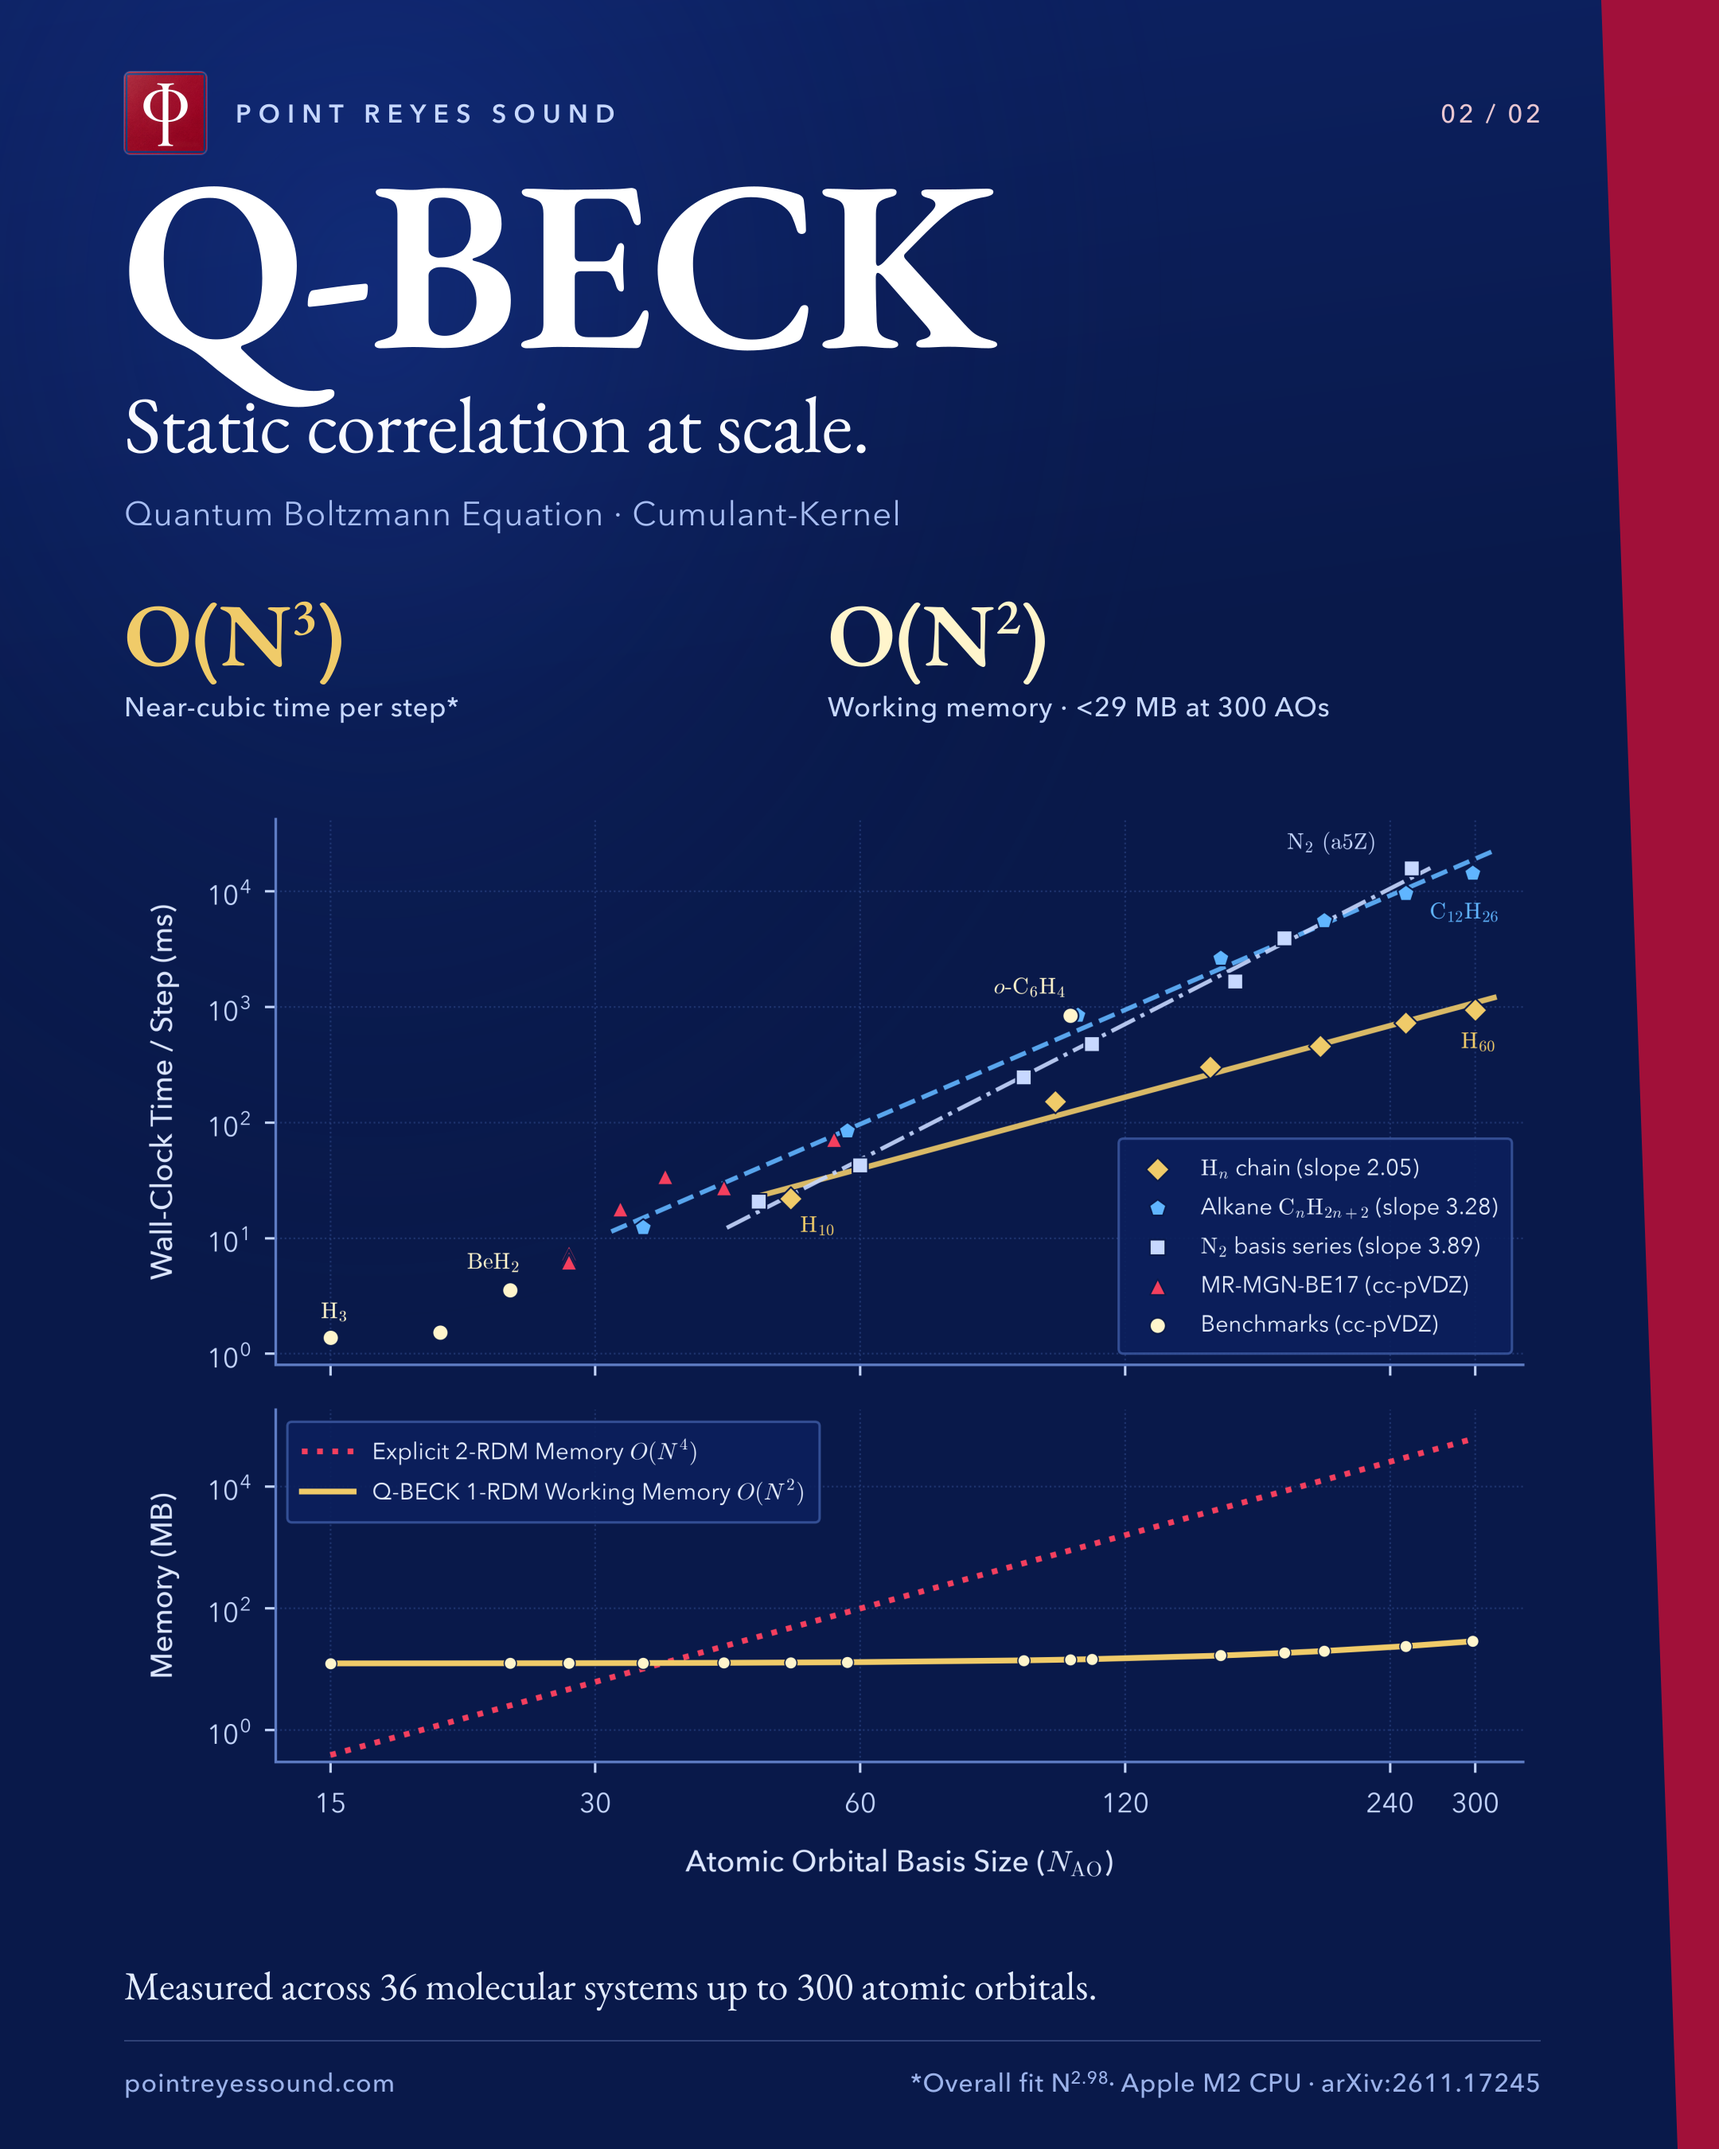
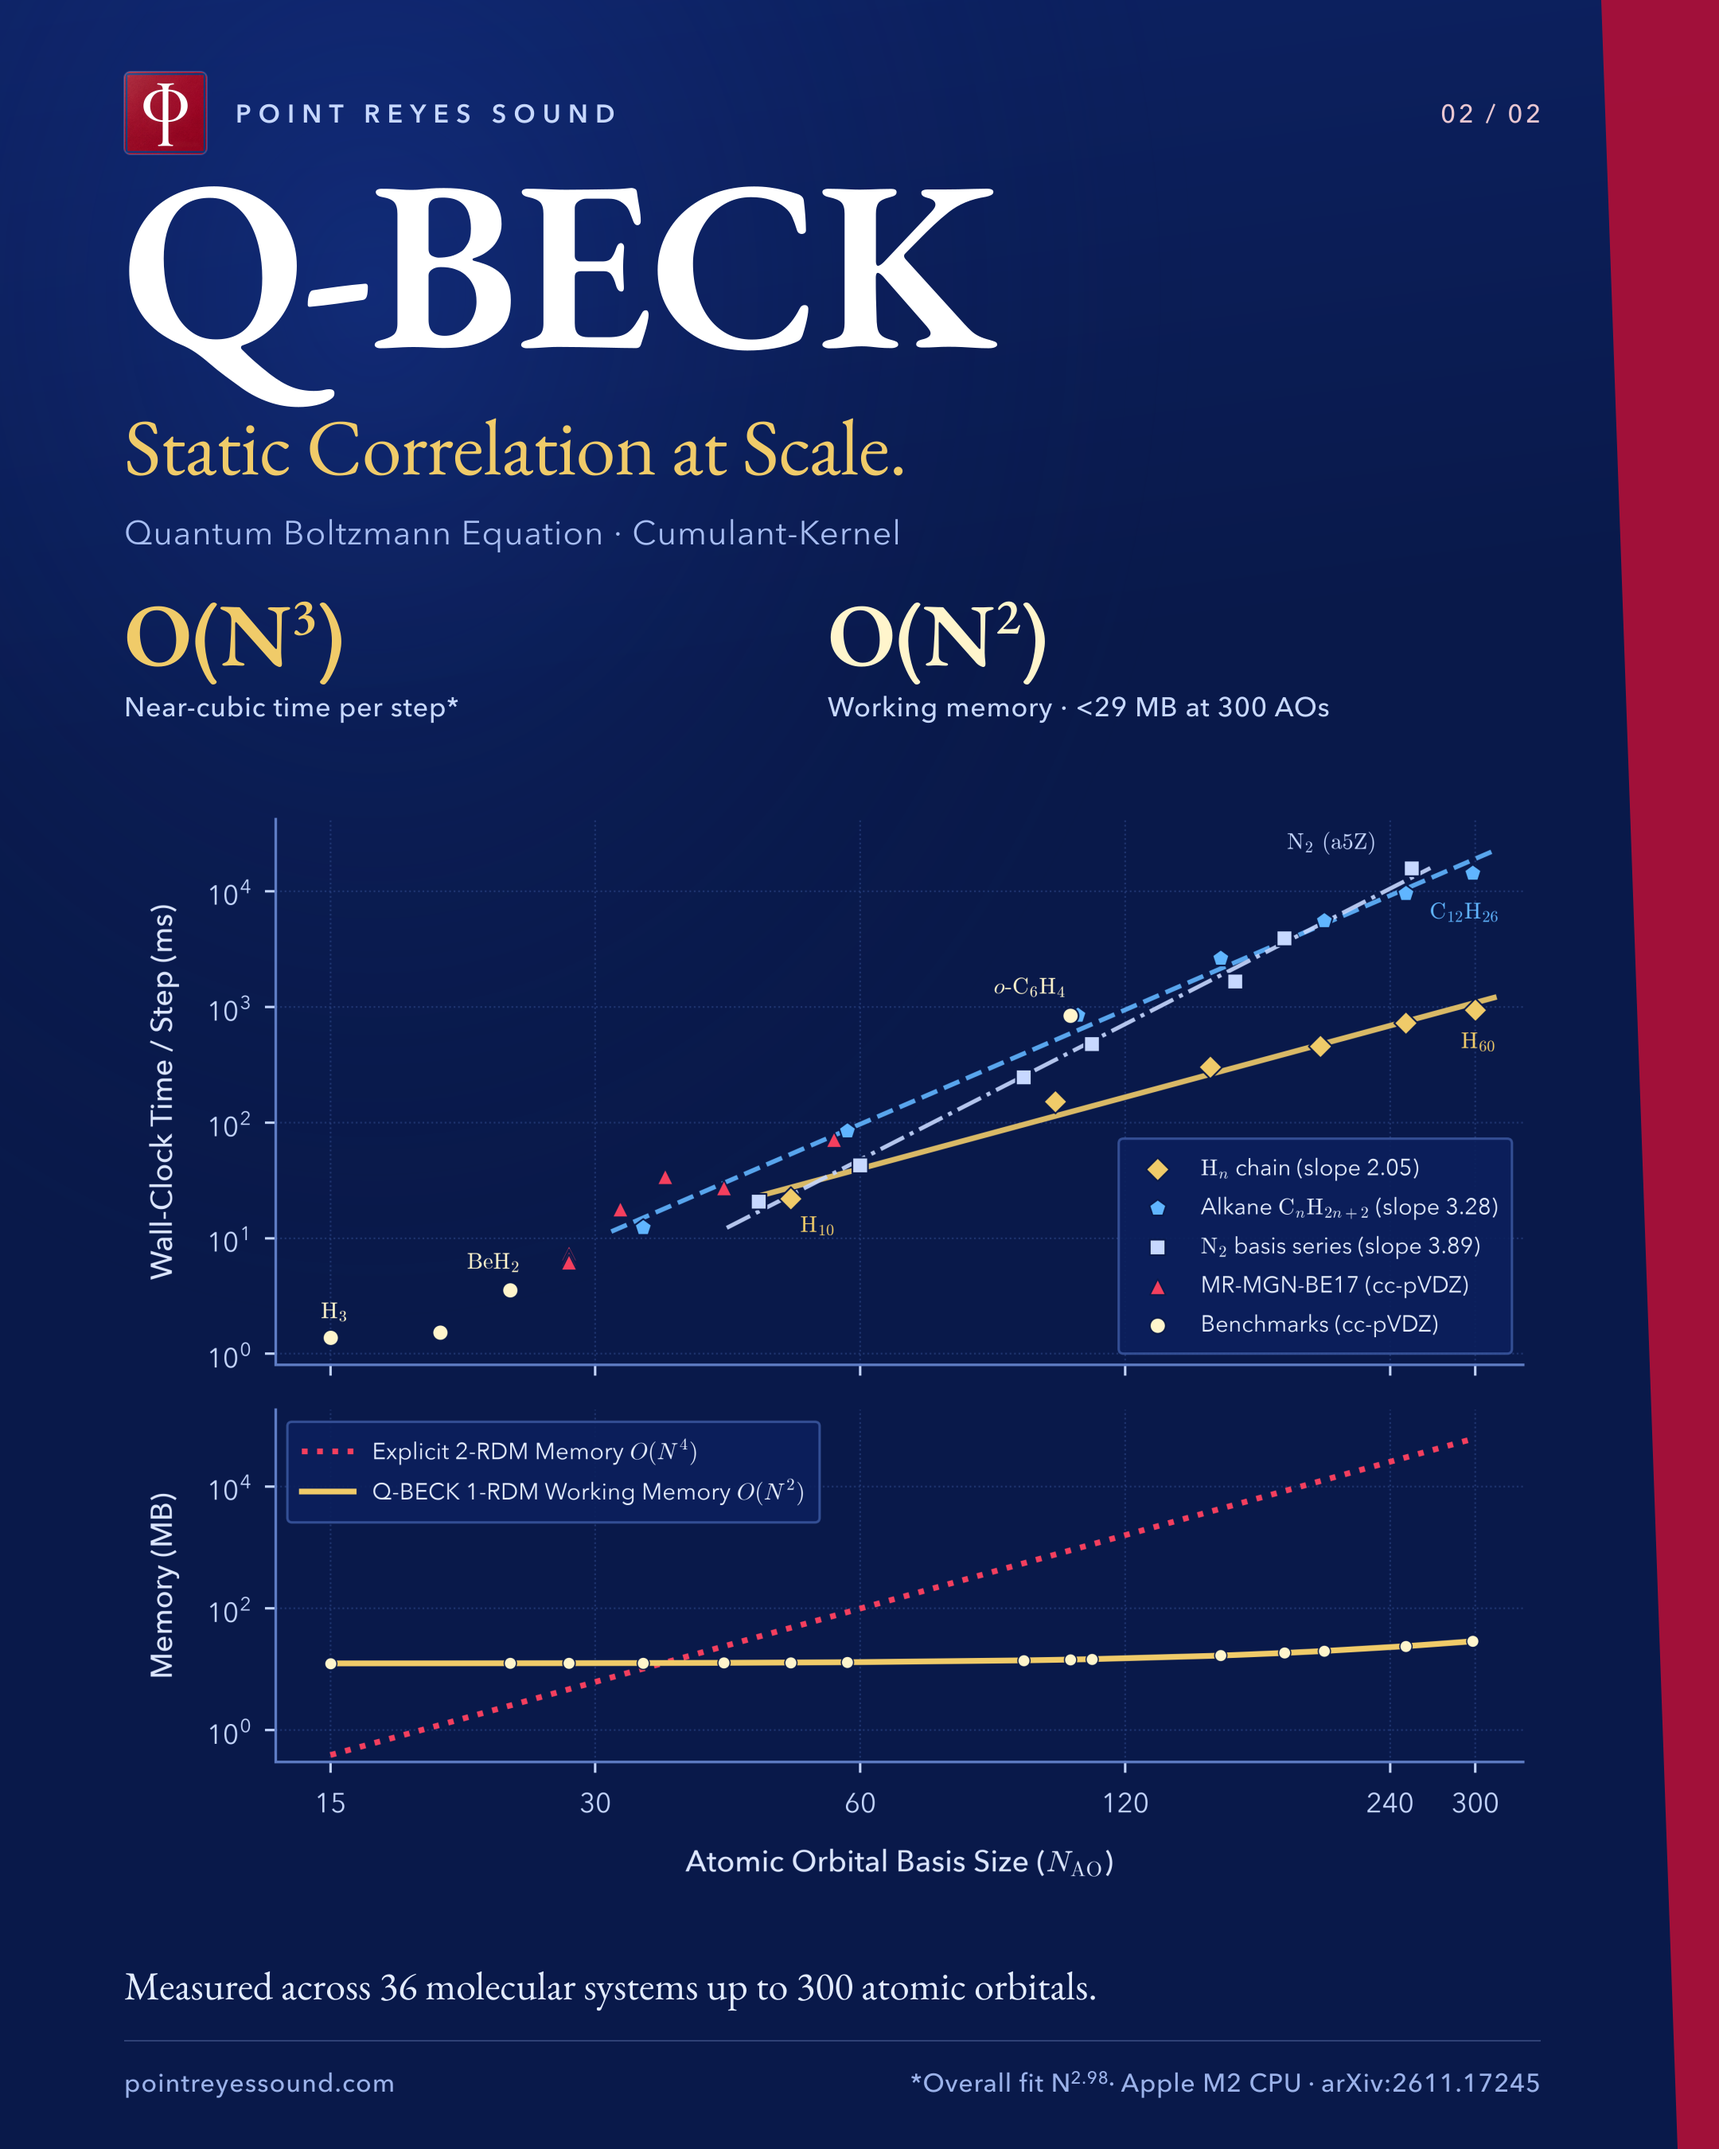
fix(research): adjust slide subtitle spacing, gold color, and capitalization

Changed region(s): [[0.062, 0.1867, 0.5273, 0.2489]]

diff --git a/scripts/generate_qbescf_slide1.py b/scripts/generate_qbescf_slide1.py
@@ -194,9 +194,9 @@ def build_svg(wigner_b64, logo_b64, vlim):
   <!-- Editorial Hero Typography -->
   <g id="hero-copy">
     <text x="76" y="230" font-family="'EB Garamond', Georgia, serif" font-size="158" font-weight="600" letter-spacing="-2.6" fill="#FFFFFF">QBE-SCF</text>
-    <text x="78" y="298" font-family="'EB Garamond', Georgia, serif" font-size="50" font-weight="400" letter-spacing="-0.4" fill="#F8FAFF">Free Electrons for the AI economy</text>
-    <text x="78" y="346" font-family="'Avenir Next', 'Helvetica Neue', sans-serif" font-size="21" font-weight="400" letter-spacing="0.5" fill="#A7BDF2">Quantum Boltzmann Equation &#183; Self-Consistent Field</text>
-    <text x="78" y="384" font-family="'EB Garamond', Georgia, serif" font-style="italic" font-size="24" font-weight="400" letter-spacing="0.2" fill="#DCE6FF">Accepted for publication, The Journal of Chemical Physics (2026).</text>
+    <text x="78" y="314" font-family="'EB Garamond', Georgia, serif" font-size="50" font-weight="400" letter-spacing="-0.4" fill="#F0CB69">Free Electrons for the AI economy</text>
+    <text x="78" y="358" font-family="'Avenir Next', 'Helvetica Neue', sans-serif" font-size="21" font-weight="400" letter-spacing="0.5" fill="#A7BDF2">Quantum Boltzmann Equation Self-Consistent Field</text>
+    <text x="78" y="394" font-family="'EB Garamond', Georgia, serif" font-style="italic" font-size="24" font-weight="400" letter-spacing="0.2" fill="#DCE6FF">Accepted for publication, The Journal of Chemical Physics (2026).</text>
   </g>
 
   <!-- Hero Wigner Distribution (~2/3 of composition) -->

diff --git a/scripts/generate_qbeck_slide2.py b/scripts/generate_qbeck_slide2.py
@@ -233,8 +233,8 @@ def build_svg(plot_b64, logo_b64, exp_overall):
   <!-- Editorial Hero Typography -->
   <g id="hero-copy">
     <text x="76" y="218" font-family="'EB Garamond', Georgia, serif" font-size="152" font-weight="600" letter-spacing="-2.4" fill="#FFFFFF">Q-BECK</text>
-    <text x="78" y="284" font-family="'EB Garamond', Georgia, serif" font-size="50" font-weight="400" letter-spacing="-0.4" fill="#F8FAFF">Static correlation at scale.</text>
-    <text x="78" y="330" font-family="'Avenir Next', 'Helvetica Neue', sans-serif" font-size="21" font-weight="400" letter-spacing="0.5" fill="#A7BDF2">Quantum Boltzmann Equation &#183; Cumulant-Kernel</text>
+    <text x="78" y="298" font-family="'EB Garamond', Georgia, serif" font-size="50" font-weight="400" letter-spacing="-0.4" fill="#F0CB69">Static Correlation at Scale.</text>
+    <text x="78" y="342" font-family="'Avenir Next', 'Helvetica Neue', sans-serif" font-size="21" font-weight="400" letter-spacing="0.5" fill="#A7BDF2">Quantum Boltzmann Equation &#183; Cumulant-Kernel</text>
   </g>
 
   <!-- Key Scaling Metrics Strip -->
